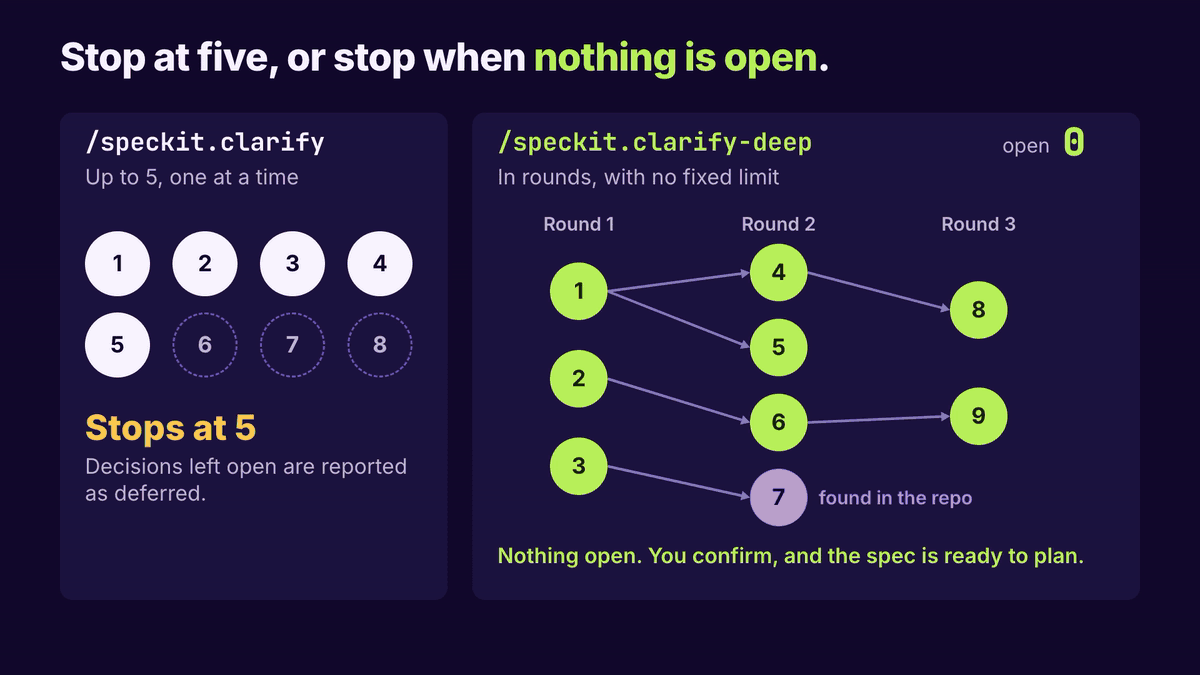
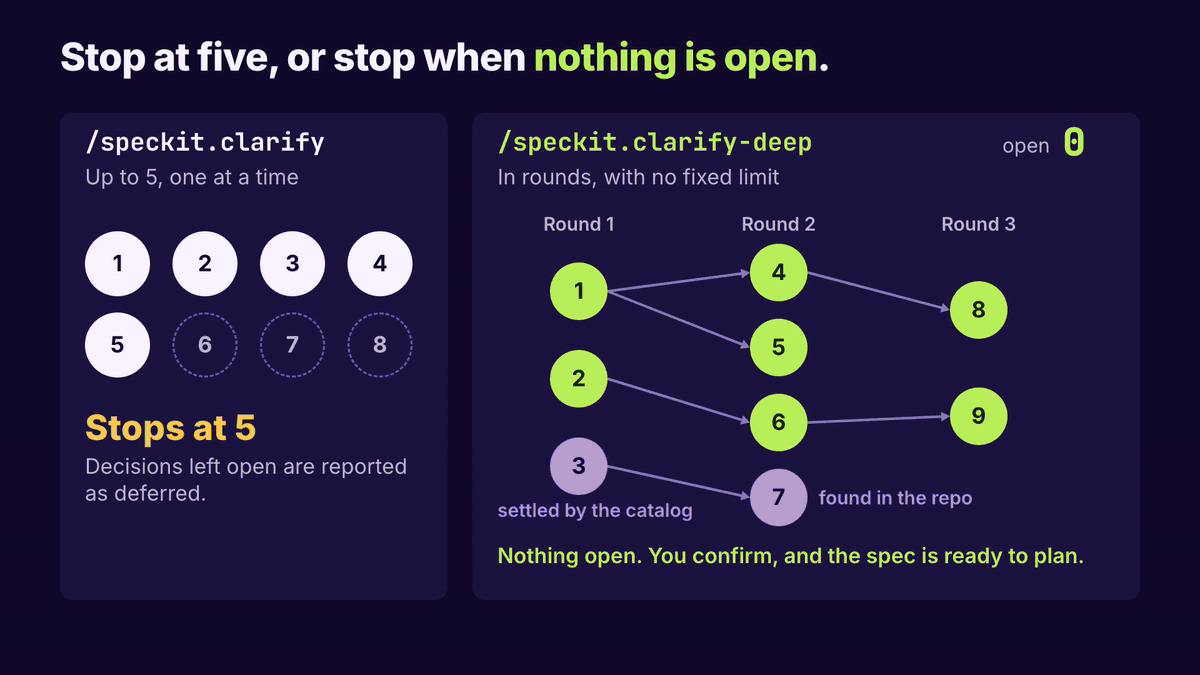
docs: say Graphify is part of the fork and what the hook before clarify adds
The README, the guides and the two GIFs still called the code graph
optional and showed nothing of the connection to clarify. They now say that
Graphify comes with specify, which commands use it, that a command stops
without it and installs nothing, and how an existing project gets the hook.

The result of the agent runs is written down as measured: the hook passed
its scenarios, the same model without it did equally well in the seven
compared, and the hook cost about 20% more and took about 1.6 times as long.

Assisted-by: Claude Code (model: Claude Opus 5.5, autonomous)

Changed region(s): [[0.4008, 0.6222, 0.5858, 0.7778]]

diff --git a/README.md b/README.md
@@ -42,8 +42,8 @@ and a check that can stop a pull request that disagrees with that record.
 | Specs say what one change wanted, not what is true today. To find the current session timeout, you read every spec that touched it, in order | It keeps the rules in force in one catalog, by capability, and copies each approved change there by script | [The capability catalog](#the-capability-catalog) |
 | A new spec can contradict or change a rule that nobody remembered, or change again after you reviewed it | It loads the affected rules before writing the spec, which then declares each change with a literal `From` and `To`. Before planning, it compares the spec with the sealed delta and you decide | `context`, `review` |
 | Once a feature ships, nothing keeps track of a requirement and code that disagree | It records the requirement and what the code does separately, and neither overwrites the other | `fold` |
-| A new agent session has to search for where a behaviour lives, which change set it, and which test covers it | Each rule records its origin, code, and tests. `locate` answers from the catalog first and warns when a reference no longer exists. An optional code graph answers what a change affects | [Graphify](#graphify-a-code-graph-for-the-catalog) |
-| `/speckit.clarify` stops at five questions, even when decisions depend on each other | It interviews you in rounds until every open decision is settled. It looks up facts itself and asks you only for decisions, each with a recommended answer | [`/speckit.clarify-deep`](#clarify-until-the-decisions-are-settled) |
+| A new agent session has to search for where a behaviour lives, which change set it, and which test covers it | Each rule records its origin, code, and tests. `locate` answers from the catalog first and warns when a reference no longer exists. A code graph answers what a change affects | [Graphify](#graphify-a-code-graph-for-the-catalog) |
+| `/speckit.clarify` stops at five questions, even when decisions depend on each other | It interviews you in rounds until every open decision is settled. Before the first question, a hook gives it what the catalog and the code graph already know. It looks up other facts itself and asks you only for decisions, each with a recommended answer | [`/speckit.clarify-deep`](#clarify-until-the-decisions-are-settled) |
 | A pull request can change a recorded rule or its tested code without a spec, or two branches can change the same rule | It compares the pull request with the catalog and your test report, and fails if they do not agree | [`check`](#catch-drift-at-the-pull-request) |
 | Code written before Spec Kit has no recorded rules | It proposes a capability map from the code and waits for your approval. Rules stay `[inferred]` until you validate them | `/speckit.capabilities.bootstrap` |
 
@@ -174,14 +174,15 @@ your approval. To remove it, run `specify extension remove capabilities`. See th
 
 ### Graphify: a code graph for the catalog
 
-[Graphify](https://github.com/Graphify-Labs/graphify) is an optional tool that maps
-how your code connects. The catalog knows what was decided, and the graph knows
-where the code is and what a change affects. It never decides what a requirement
-is.
+[Graphify](https://github.com/Graphify-Labs/graphify) maps how your code connects, and
+it is part of this fork: it installs with `specify`, `specify init` builds the first
+graph, and `specify check` reports its version. The catalog knows what was decided, and
+the graph knows where the code is and what a change affects. It never decides what a
+requirement is.
 
 <picture>
   <source media="(prefers-reduced-motion: reduce)" srcset="media/graphify-locate.png">
-  <img src="media/graphify-locate.gif" width="830" alt="Two questions go to locate. Where does the session expire is answered by the catalog with the rule, the change that set it, its code, and its test. What breaks if I change it has no answer in the catalog, so it goes to Graphify, which lists the code that depends on Session.">
+  <img src="media/graphify-locate.gif" width="830" alt="Two questions go to locate. Where does the session expire is answered by the catalog with the rule, the change that set it, its code, and its test. What breaks if I change it has no answer in the catalog, so it goes to Graphify, which comes with specify and lists the code that depends on Session. If it is missing, the command stops and shows how to reinstall.">
 </picture>
 
 To ask, use your own words or the command:
@@ -196,23 +197,38 @@ To ask, use your own words or the command:
 | What does changing this affect | `graph affected`, which warns when a name repeats, so you confirm in the code |
 | What is this anchor or name | `graph explain` |
 | Anything else about the code | `graph query`, with technical English keywords. Spanish or a whole question finds almost nothing |
-| Graphify cannot answer, or is not installed | A search of the code with `rg` |
+| Graphify cannot answer | A search of the code with `rg` |
+| Graphify is missing | Nothing: the command stops and shows how to reinstall `specify` |
 
 Each answer says which part came from the graph or the code.
 
-```bash
-uv tool install graphifyy==0.9.102
-```
+| Command | How it uses the graph |
+| --- | --- |
+| `context`, before the spec is written | Finds capabilities that their `covers` text did not reveal |
+| `clarify-context`, before the first question | The same, plus what each rule touched reaches in the code |
+| `locate` | When the catalog does not answer |
+| `bootstrap` | Builds it first, and takes its groupings only as hints |
 
-- **The extension works without it** and never installs it.
+`check` and `fold` do not use it, so your CI does not need it.
+
+- **It comes with the install:** version `0.9.102`, always the same one, in the
+  environment of `specify` and not on your `PATH`. It adds about 116 MB and 30 packages.
+- **The agent installs nothing:** if Graphify is missing, the command stops and shows
+  the command to run. A one-time run with `uvx` leaves no `specify` behind, so install
+  it to use the catalog.
+- **A failure does not block you:** a project with no code yet is reported and the
+  command goes on. If the graph cannot be built, it warns you and searches with `rg`.
 - **Every read updates the graph first:** 2 seconds with no changes, and 44 seconds
   after a change, in a repository of 350 source files.
-- **It writes only ignored files:** `graphify-out/`, which ignores itself, and
-  `.graphifyignore` if you have none. No tracked file changes.
-- **It reaches only part of the tool:** `update`, `explain`, `affected`, and `query`,
-  with no LLM keys in its environment.
-- **Validation so far:** it was run with the real tool on Python, Java, and
-  TypeScript. No model has used this path yet.
+- **It leaves little behind:** `graphify-out/`, which ignores itself, and
+  `.graphifyignore` if you have none, which you can commit. No tracked file changes.
+- **It stays on your machine:** only `update`, `explain`, `affected`, and `query` reach
+  the tool, with no LLM keys in its environment. A test checks that those four attempt
+  no connection.
+- **Tests stay out of the graph:** the tests a change reaches come from the catalog.
+- **Validation so far:** it was run with the real tool on Python, Java, and TypeScript.
+  A model has used it through the hook before clarify, in test projects of up to 126
+  source files. See the limits below.
 
 ### Clarify until the decisions are settled
 
@@ -223,8 +239,14 @@ so the commands after them work the same way.
 
 <picture>
   <source media="(prefers-reduced-motion: reduce)" srcset="media/clarify-deep.png">
-  <img src="media/clarify-deep.gif" width="830" alt="On the left, clarify answers five questions and stops, reporting the rest as deferred. On the right, clarify-deep works in rounds: each answer opens new questions, one is resolved from the repository, and it ends when nothing is open and you confirm. The counts are illustrative.">
+  <img src="media/clarify-deep.gif" width="830" alt="On the left, clarify answers five questions and stops, reporting the rest as deferred. On the right, clarify-deep starts with what the catalog and the graph know, so one question is already settled. It works in rounds: each answer opens new questions, one is resolved from the repository, and it ends when nothing is open and you confirm. The counts are illustrative.">
 </picture>
+
+Before the first question, both commands run a hook that reads the catalog and the
+graph. It separates what is settled, which the interview does not ask, from what it
+must ask: a spec that contradicts an approved rule, a rule nobody approved or that the
+code does not follow, and code the change reaches beyond its delta. It never decides
+for you.
 
 Use `/speckit.clarify` when a short pass is enough, and `/speckit.clarify-deep`
 when the feature is costly to get wrong. You can stop the interview at any time,
@@ -253,7 +275,8 @@ Surefire, Gradle, Jest, or Vitest, and only for the rules the pull request touch
 - **Untouched rules:** it checks only the rules a pull request touches.
 - **Agents:** the block that points agents to the catalog is an instruction they can ignore. Only CI enforces anything.
 - **Rules given up in two steps:** a pull request that only records `discrepant` passes with a notice, and the next one can change that code without a delta.
-- **Validation so far:** it has been validated with Claude Code and one model, and each agent scenario ran once. It has not been run on Windows or under GitHub Actions, and no model has used the code graph. With `--script ps`, it is installed only if you ask for it.
+- **Validation so far:** it has been validated with Claude Code and one model, and each agent scenario ran once. It has not been run on Windows or under GitHub Actions. With `--script ps`, it is installed only if you ask for it.
+- **The hook before clarify:** it passed all its scenarios, but so did the same model without it in the seven scenarios compared, because the block for agents already sends it to the catalog and it searched the code on its own. One run per scenario, with the hook costing about 20% more and taking about 1.6 times as long. So it gives a step that does not depend on an instruction an agent can ignore, not a measured improvement. Other models, large repositories, and long interviews were not measured.
 
 This comparison is with Spec Kit's core. The
 [community catalog](https://github.github.io/spec-kit/reference/catalogs.html) has
@@ -320,6 +343,20 @@ This example uses GitHub Copilot.
 uv tool install specify-cli --from git+https://github.com/lema017/speckit-vs.git
 specify init my-project --integration copilot
 cd my-project
+```
+
+This also installs [Graphify](#graphify-a-code-graph-for-the-catalog), and `specify init`
+builds the first graph of the project. `specify check` tells you if it is missing.
+
+To bring a project you already have up to date, run these from its directory. The
+second command keeps your configuration:
+
+```bash
+uv tool install specify-cli --force --from git+https://github.com/lema017/speckit-vs.git
+```
+
+```bash
+specify extension add capabilities --force
 ```
 
 <a id="-supported-ai-coding-agent-integrations"></a>

diff --git a/extensions/capabilities/README.md b/extensions/capabilities/README.md
@@ -32,6 +32,7 @@ specs/_capabilities/
 |---|---|---|
 | `before_specify` | `context` | Nothing, and creates no branch |
 | `after_specify` | `review` | The delta section if missing, and its lock |
+| `before_clarify` | `clarify-context` | Nothing. It tells both `clarify` and `clarify-deep` what is settled, what to ask, and what the change reaches |
 | `before_plan` | `review` | The lock, only after you decide |
 | `after_implement` | `fold` | Catalog and lock |
 | `after_converge` | `fold` | Catalog and lock |
@@ -43,9 +44,9 @@ Prompts run hooks in install order, so install `capabilities` before `git` if yo
 | Command | What it does | Writes |
 |---|---|---|
 | `speckit.capabilities.bootstrap` | Proposes a capability map for a project that already has code and waits for your approval. Then lists the chosen capabilities as `planned` and consolidates them through a record | The catalog, only after you approve. Rules stay `[inferred]` until you validate them with `--validate` |
-| `speckit.capabilities.locate` | Answers where a behaviour lives, which change set it and which tests cover it, from the catalog first. Says when part of the answer comes from the code | Nothing of yours. With Graphify installed, the graph leaves its own untracked files (see below) |
+| `speckit.capabilities.locate` | Answers where a behaviour lives, which change set it and which tests cover it, from the catalog first. Says when part of the answer comes from the code | Nothing of yours. The graph leaves its own untracked files (see below) |
 
-The script has two subcommands for them: `scaffold --capability <name> --covers "<one line>"` and `locate [--capability <name>]`.
+The script has subcommands for them: `scaffold --capability <name> --covers "<one line>"` and `locate [--capability <name>]`. `clarify-context [--change <dir>]` gives the hook the feature, its parsed delta and every capability, and ends with exit code 0 when there is no feature, because `clarify` reports that itself.
 
 ## The block for agents
 
@@ -67,15 +68,13 @@ When `review` seals a delta, or `prepare` is `ready`, or `scaffold` lists a capa
 | 3 | A decision is needed, or the operation is blocked |
 | 4 | A fold was interrupted and needs `recover` |
 | 5 | Another process is publishing |
-| 6 | Only `graph`: Graphify cannot answer. Use the anchors and `rg` |
+| 6 | Only `graph`: Graphify cannot answer, and `reason` says why. `not-installed` stops the commands that use the graph. `no-code`, `update-failed` and `read-failed` continue with the anchors and `rg` |
 
-## Optional: a code graph
+## The code graph
 
-[Graphify](https://github.com/Graphify-Labs/graphify) answers where code is and what a change affects. It never decides what the requirement is, and nothing else needs it. The extension never installs it.
+[Graphify](https://github.com/Graphify-Labs/graphify) answers where code is and what a change affects. It never decides what the requirement is. It is a dependency of `specify`, so it lives in the environment of `specify` and not on your `PATH`. The gate looks beside the real `specify` first, then on `PATH`.
 
-```bash
-uv tool install graphifyy==0.9.102
-```
+`context`, `clarify-context`, `locate` and `bootstrap` use it, and stop if it is missing: they show the command to reinstall `specify` without running it. `check` and `fold` do not use it.
 
 Everything goes through one door, with no LLM keys in its environment, and only `update`, `explain`, `affected` and `query` reach the tool:
 
@@ -95,8 +94,13 @@ python3 .specify/extensions/capabilities/scripts/python/capabilities.py graph st
 - It writes `graphify-out/`, which ignores itself, and `.graphifyignore` if you have none. No tracked file changes.
 - `by-name` means the graph has no such node, but the file contains the name: Graphify does not model a Java `static` field, for instance.
 - Without Graphify, `status` says so and `anchors` checks by file and name, both with exit code 0. `explain`, `affected`, `query` and `update` exit with 6.
+- In a project with no code, `update` and the reads exit with 6 and `reason: no-code`. That is not a failure.
+- `update`, `explain`, `affected` and `query` attempt no connection: a test intercepts the sockets of the real tool. They do load network modules, through `graphify.security`.
+- The graph leaves tests out, so the tests a change reaches come from the catalog.
 
-Validated with the real tool on Python, Java and TypeScript projects. A model has not been run through this path.
+Validated with the real tool on Python, Java and TypeScript projects, and with one model through `clarify-context`, in test projects of up to 126 source files.
+
+`clarify-context` passed its scenarios, but the same model without the hook did equally well in the seven scenarios compared, because the block for agents sends it to the catalog and it searched the code on its own. Each scenario ran once, and the hook cost about 20% more and took about 1.6 times as long. It adds a step that does not depend on an instruction an agent can ignore, not a measured improvement. Other models, large repositories and long interviews were not measured. The interview's subagents do not get the report, and neither does a session after its context is compacted.
 
 ## What CI enforces
 

diff --git a/docs/how-to/capabilities.md b/docs/how-to/capabilities.md
@@ -32,7 +32,7 @@ You use Spec Kit as usual. The extension adds hooks to the flow:
 
    `From` and `To` are literal. `review` then seals the delta with a lock.
 
-2. **`/speckit.clarify`** can change the spec. **`/speckit.plan`** compares the spec with the lock and shows you any change of meaning. You decide.
+2. **`/speckit.clarify`** and **`/speckit.clarify-deep`** first run a hook that reads the catalog and the code graph. It tells the interview which rules are settled, so it does not ask them, and what to ask: a spec that contradicts an approved rule, a rule nobody approved or that the code does not follow, and code the change reaches beyond its delta. The interview can change the spec. **`/speckit.plan`** compares the spec with the lock and shows you any change of meaning. You decide.
 
 3. **`/speckit.implement`** ends with `fold`, which copies `To` to the catalog by script and writes what the code was observed to do. If the requirement says 15 and the code still says 30, the requirement stays at 15 and the rule is `discrepant`.
 
@@ -64,7 +64,7 @@ The first time the catalog is used, the extension adds a block to your agent's i
 /speckit.capabilities.locate where does the session expire?
 ```
 
-It answers from the catalog first, warns when an anchor no longer exists, and says when part of the answer comes from the code. It changes none of your files; if you add the code graph below, the graph leaves its own untracked ones.
+It answers from the catalog first, warns when an anchor no longer exists, and says when part of the answer comes from the code. It changes none of your files; the [code graph](#the-code-graph) leaves its own, which no tracked file depends on.
 
 ## Start from an existing project
 
@@ -88,15 +88,28 @@ The workflow in `.specify/extensions/capabilities/ci/capabilities-check.yml` is 
 
 The check needs a test report. It reads what pytest, Maven Surefire, Gradle, Jest with `jest-junit` and Vitest write, and each has its own form of test reference and its own traps. See [Test references](https://github.com/lema017/speckit-vs/blob/main/extensions/capabilities/README.md#what-ci-enforces).
 
-## Add a code graph, if you want one
+## The code graph
 
-[Graphify](https://github.com/Graphify-Labs/graphify) answers where code is and what a change affects. The extension works without it, never installs it, and never lets it decide what a requirement is.
+[Graphify](https://github.com/Graphify-Labs/graphify) answers where code is and what a change affects. It is part of this fork: it installs with `specify`, in the environment of `specify` and not on your `PATH`, and `specify init` builds the first graph. It never decides what a requirement is.
+
+- `context` and `clarify-context` use it to find capabilities that their `covers` text did not reveal, and `clarify-context` to show what a change reaches beyond its delta.
+- `locate` uses it for what the catalog does not answer: it follows an anchor or a name, or looks around technical English keywords.
+- `bootstrap` builds it first, and takes its groupings only as hints.
+- `check` and `fold` do not use it, so CI does not need it.
+
+If Graphify is missing, these commands stop and show the command to reinstall `specify`. The agent installs nothing. A project with no code yet is reported and the command goes on, and so is a graph that cannot be built, with a visible warning and a search with `rg` instead. `specify check` reports the version and does not say the CLI is ready without it.
+
+The first use writes `graphify-out/`, which ignores itself, and a `.graphifyignore` if you have none. No tracked file changes. Every read updates the graph first: in a repository of 350 source files that took 2 seconds with no changes and 44 seconds after a change. The graph leaves tests out, so the tests a change reaches come from the catalog.
+
+To bring a project you already have up to date, reinstall `specify` and add the extension again. `--force` keeps your configuration and registers the new hook:
 
 ```bash
-uv tool install graphifyy==0.9.102
+uv tool install specify-cli --force --from git+https://github.com/lema017/speckit-vs.git
 ```
 
-With it on your path, `locate` uses the graph for what the catalog does not answer: it follows an anchor or a name, or looks around technical English keywords. The first use writes `graphify-out/`, which ignores itself, and a `.graphifyignore` if you have none. No tracked file changes. Every read updates the graph first: in a repository of 350 source files that took 2 seconds with no changes and 44 seconds after a change.
+```bash
+specify extension add capabilities --force
+```
 
 ## What it cannot do
 

diff --git a/docs/reference/agentic-sdd.md b/docs/reference/agentic-sdd.md
@@ -81,7 +81,7 @@ Interviews you about the current spec until every open decision is settled, with
 
 Use `/speckit.clarify` when a short pass over the highest-impact gaps is enough, since it stops at five questions. Use `/speckit.clarify-deep` when decisions depend on each other or the feature is costly to get wrong, and you can spend the time on a longer interview. It stays out of implementation and tech-stack choices, which belong in `/speckit.plan`.
 
-Both commands write the same `## Clarifications` section, re-evaluate `checklists/requirements.md`, and run the same `before_clarify` and `after_clarify` hooks, so `/speckit.plan` and later commands work the same after either one.
+Both commands write the same `## Clarifications` section, re-evaluate `checklists/requirements.md`, and run the same `before_clarify` and `after_clarify` hooks, so `/speckit.plan` and later commands work the same after either one. The `capabilities` extension uses `before_clarify` to give both of them what the catalog and the code graph already know, before the first question. See the [catalog guide](../how-to/capabilities.md).
 
 The interview method is adapted from the [`grilling` skill](https://github.com/mattpocock/skills/tree/main/skills/productivity/grilling) by Matt Pocock (MIT License).
 

diff --git a/docs/upgrade.md b/docs/upgrade.md
@@ -14,6 +14,7 @@
 | **CLI Tool — manual fallback (pipx)** | `pipx install --force git+https://github.com/lema017/speckit-vs.git@vX.Y.Z` | Same as above, for pipx installs. |
 | **Project Files** | Run `specify integration upgrade <key>`, then `specify extension update` | Refresh installed integration files and extensions in your project |
 | **Both** | Run CLI upgrade, then project update | Recommended for major version updates |
+| **The `capabilities` extension** | `specify extension add capabilities --force` | After upgrading the CLI. Registers new hooks and keeps your configuration |
 
 ---
 
@@ -158,6 +159,8 @@ Run:
 ```bash
 specify extension update
 ```
+
+To register the new hooks of the `capabilities` extension, run `specify extension add capabilities --force` instead. It keeps your configuration.
 
 With no extension argument, this updates all installed extensions. Use `specify extension update <extension-id-or-name>` to update only one extension. See the [extension CLI reference](extensions/cli.md#update-extensions) for details.
 

diff --git a/docs/install/one-time.md b/docs/install/one-time.md
@@ -22,6 +22,10 @@ uvx --from git+https://github.com/lema017/speckit-vs.git specify init . --integr
 uvx --from git+https://github.com/lema017/speckit-vs.git specify init --here --integration copilot
 ```
 
+## Limits of a one-time run
+
+After `specify init`, a one-time run leaves no `specify` and no Graphify on your machine, so the `capabilities` hooks stop and show the command to install `specify`. Install it to use the catalog. The first graph of the project is still built during `specify init`.
+
 ## When to use persistent installation instead
 
 If you plan to use Spec Kit regularly, a persistent installation is recommended:

diff --git a/docs/installation.md b/docs/installation.md
@@ -8,6 +8,8 @@
 - [Python 3.11+](https://www.python.org/downloads/)
 - [Git](https://git-scm.com/downloads) *(optional — required only when the git extension is enabled)*
 
+Installing this fork also installs [Graphify](https://github.com/Graphify-Labs/graphify) `0.9.102`, the code graph of the `capabilities` extension, as a dependency of `specify`. It adds about 116 MB and 30 packages, and it is not on your `PATH`. `specify check` reports its version.
+
 ## Installation
 
 > [!IMPORTANT]
